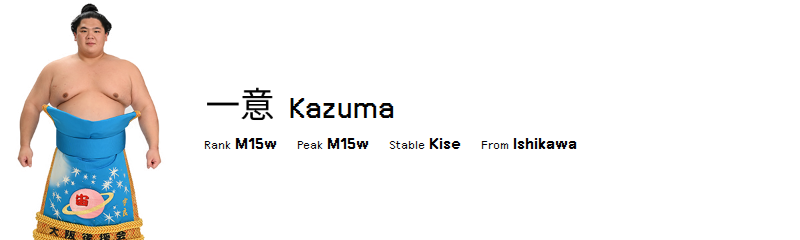
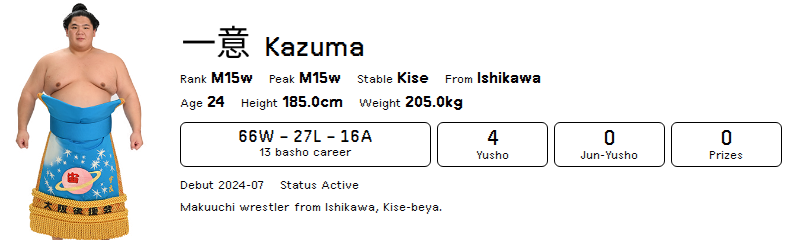
Pack more full-card rikishi fields into the smaller sizes
Photo stays on every size. half_horizontal uses the empty width for
rank/physicals, career boxes, debut/status, and a one-line bio.
half_vertical puts career W-L and yusho/prizes back in the right
column. quadrant adds W-L, yusho, age/height, and stable/from.

diff --git a/previews/profile/half_horizontal.html b/previews/profile/half_horizontal.html
@@ -16,30 +16,40 @@
         <style>
   .layout { padding: 0 !important; margin: 0 !important; }
   .view { padding: 0 !important; }
+  .stat-box {
+    display: flex;
+    flex-direction: column;
+    align-items: center;
+    justify-content: center;
+    border: 1px solid currentColor;
+    border-radius: 6px;
+    padding: 4px 8px;
+    flex: 1;
+  }
 </style>
 
 <div style="display: flex; flex-direction: row; width: 800px; height: 240px; overflow: hidden;">
 
-  <div style="width: 180px; flex-shrink: 0; overflow: hidden;">
+  <div style="width: 160px; flex-shrink: 0; overflow: hidden;">
     
       <img class="image image-dither image--cover"
            src="https://alexfry.github.io/SumoTrmnl/photos/12226.png"
-           style="display: block; width: 180px; height: 240px; object-fit: cover; object-position: top;">
+           style="display: block; width: 160px; height: 240px; object-fit: cover; object-position: top;">
     
   </div>
 
-  <div style="flex: 1; min-width: 0; display: flex; flex-direction: column; justify-content: center; padding: 16px 20px 16px 24px; gap: 0;">
+  <div style="flex: 1; min-width: 0; display: flex; flex-direction: column; justify-content: center; padding: 12px 18px 12px 20px; gap: 0;">
 
-    <div style="display: flex; align-items: flex-end; gap: 12px; margin-bottom: 12px;">
+    <div style="display: flex; align-items: flex-end; gap: 12px; margin-bottom: 8px;">
       
         <img class="image image-dither"
              src="https://alexfry.github.io/SumoTrmnl/jp/2c88e9afcd6b.png"
              style="display: inline; height: 36px; vertical-align: bottom;">
       
-      <span class="title" style="font-size: 28px; line-height: 1;">Kazuma</span>
+      <span class="title" style="font-size: 26px; line-height: 1;">Kazuma</span>
     </div>
 
-    <div style="display: flex; gap: 20px; flex-wrap: wrap;">
+    <div style="display: flex; gap: 16px; margin-bottom: 4px; flex-wrap: wrap;">
       <div><span class="label label--small">Rank</span>&nbsp;<span class="label" style="font-weight: bold;">M15w</span></div>
       <div><span class="label label--small">Peak</span>&nbsp;<span class="label">M15w</span></div>
       
@@ -49,6 +59,48 @@
         <div><span class="label label--small">From</span>&nbsp;<span class="label">Ishikawa</span></div>
       
     </div>
+
+    <div style="display: flex; gap: 16px; margin-bottom: 10px;">
+      
+        <div><span class="label label--small">Age</span>&nbsp;<span class="label">24</span></div>
+      
+      
+        <div><span class="label label--small">Height</span>&nbsp;<span class="label">185.0cm</span></div>
+      
+      
+        <div><span class="label label--small">Weight</span>&nbsp;<span class="label">205.0kg</span></div>
+      
+    </div>
+
+    <div style="display: flex; gap: 6px; margin-bottom: 8px;">
+      <div class="stat-box" style="flex: 2.5;">
+        <span class="title value--tnums" style="font-size: 16px;">66W &ndash; 27L &ndash; 16A</span>
+        <span class="label label--small">13 basho career</span>
+      </div>
+      <div class="stat-box">
+        <span class="title value--tnums">4</span>
+        <span class="label label--small">Yusho</span>
+      </div>
+      <div class="stat-box">
+        <span class="title value--tnums">0</span>
+        <span class="label label--small">Jun-Yusho</span>
+      </div>
+      <div class="stat-box">
+        <span class="title value--tnums">0</span>
+        <span class="label label--small">Prizes</span>
+      </div>
+    </div>
+
+    <div style="display: flex; gap: 16px; margin-bottom: 6px;">
+      
+        <div><span class="label label--small">Debut</span>&nbsp;<span class="label label--small">2024-07</span></div>
+      
+      <div><span class="label label--small">Status</span>&nbsp;<span class="label label--small">Active</span></div>
+    </div>
+
+    
+      <p class="label label--small" style="margin: 0; line-height: 1.3; overflow: hidden; white-space: nowrap; text-overflow: ellipsis;">Makuuchi wrestler from Ishikawa, Kise-beya.</p>
+    
 
   </div>
 

diff --git a/previews/profile/half_vertical.html b/previews/profile/half_vertical.html
@@ -16,30 +16,40 @@
         <style>
   .layout { padding: 0 !important; margin: 0 !important; }
   .view { padding: 0 !important; }
+  .stat-box {
+    display: flex;
+    flex-direction: column;
+    align-items: center;
+    justify-content: center;
+    border: 1px solid currentColor;
+    border-radius: 6px;
+    padding: 5px 6px;
+    flex: 1;
+  }
 </style>
 
 <div style="display: flex; flex-direction: row; width: 400px; height: 480px; overflow: hidden;">
 
-  <div style="width: 170px; flex-shrink: 0; overflow: hidden;">
+  <div style="width: 160px; flex-shrink: 0; overflow: hidden;">
     
       <img class="image image-dither image--cover"
            src="https://alexfry.github.io/SumoTrmnl/photos/12226.png"
-           style="display: block; width: 170px; height: 480px; object-fit: cover; object-position: top;">
+           style="display: block; width: 160px; height: 480px; object-fit: cover; object-position: top;">
     
   </div>
 
-  <div style="flex: 1; min-width: 0; display: flex; flex-direction: column; justify-content: center; padding: 16px 14px 16px 16px; gap: 0;">
+  <div style="flex: 1; min-width: 0; display: flex; flex-direction: column; justify-content: center; padding: 14px 12px 14px 14px; gap: 0;">
 
-    <div style="display: flex; flex-direction: column; align-items: flex-start; gap: 8px; margin-bottom: 14px;">
+    <div style="display: flex; flex-direction: column; align-items: flex-start; gap: 6px; margin-bottom: 10px;">
       
         <img class="image image-dither"
              src="https://alexfry.github.io/SumoTrmnl/jp/2c88e9afcd6b.png"
-             style="display: block; height: 36px;">
+             style="display: block; height: 32px;">
       
-      <span class="title" style="font-size: 24px; line-height: 1;">Kazuma</span>
+      <span class="title" style="font-size: 22px; line-height: 1;">Kazuma</span>
     </div>
 
-    <div style="display: flex; flex-direction: column; gap: 6px;">
+    <div style="display: flex; flex-direction: column; gap: 4px; margin-bottom: 8px;">
       <div><span class="label label--small">Rank</span>&nbsp;<span class="label" style="font-weight: bold;">M15w</span></div>
       <div><span class="label label--small">Peak</span>&nbsp;<span class="label">M15w</span></div>
       
@@ -48,6 +58,45 @@
       
         <div><span class="label label--small">From</span>&nbsp;<span class="label">Ishikawa</span></div>
       
+    </div>
+
+    <div style="display: flex; flex-direction: column; gap: 4px; margin-bottom: 10px;">
+      
+        <div><span class="label label--small">Age</span>&nbsp;<span class="label">24</span></div>
+      
+      
+        <div><span class="label label--small">Height</span>&nbsp;<span class="label">185.0cm</span></div>
+      
+      
+        <div><span class="label label--small">Weight</span>&nbsp;<span class="label">205.0kg</span></div>
+      
+    </div>
+
+    <div class="stat-box" style="margin-bottom: 6px;">
+      <span class="title value--tnums" style="font-size: 15px;">66W &ndash; 27L &ndash; 16A</span>
+      <span class="label label--small">13 basho career</span>
+    </div>
+
+    <div style="display: flex; gap: 5px; margin-bottom: 10px;">
+      <div class="stat-box">
+        <span class="title value--tnums">4</span>
+        <span class="label label--small">Yusho</span>
+      </div>
+      <div class="stat-box">
+        <span class="title value--tnums">0</span>
+        <span class="label label--small">Jun-Yusho</span>
+      </div>
+      <div class="stat-box">
+        <span class="title value--tnums">0</span>
+        <span class="label label--small">Prizes</span>
+      </div>
+    </div>
+
+    <div style="display: flex; flex-direction: column; gap: 4px;">
+      
+        <div><span class="label label--small">Debut</span>&nbsp;<span class="label label--small">2024-07</span></div>
+      
+      <div><span class="label label--small">Status</span>&nbsp;<span class="label label--small">Active</span></div>
     </div>
 
   </div>

diff --git a/previews/profile/quadrant.html b/previews/profile/quadrant.html
@@ -20,28 +20,51 @@
 
 <div style="display: flex; flex-direction: row; width: 400px; height: 240px; overflow: hidden;">
 
-  <div style="width: 150px; flex-shrink: 0; overflow: hidden;">
+  <div style="width: 140px; flex-shrink: 0; overflow: hidden;">
     
       <img class="image image-dither image--cover"
            src="https://alexfry.github.io/SumoTrmnl/photos/12226.png"
-           style="display: block; width: 150px; height: 240px; object-fit: cover; object-position: top;">
+           style="display: block; width: 140px; height: 240px; object-fit: cover; object-position: top;">
     
   </div>
 
-  <div style="flex: 1; min-width: 0; display: flex; flex-direction: column; justify-content: center; padding: 14px 12px 14px 14px; gap: 0;">
+  <div style="flex: 1; min-width: 0; display: flex; flex-direction: column; justify-content: center; padding: 10px 12px 10px 14px; gap: 0;">
 
-    <div style="display: flex; flex-direction: column; align-items: flex-start; gap: 6px; margin-bottom: 10px;">
+    <div style="display: flex; flex-direction: column; align-items: flex-start; gap: 4px; margin-bottom: 8px;">
       
         <img class="image image-dither"
              src="https://alexfry.github.io/SumoTrmnl/jp/2c88e9afcd6b.png"
-             style="display: block; height: 28px;">
+             style="display: block; height: 24px;">
       
-      <span class="title" style="font-size: 22px; line-height: 1;">Kazuma</span>
+      <span class="title" style="font-size: 20px; line-height: 1;">Kazuma</span>
     </div>
 
-    <div style="display: flex; flex-direction: column; gap: 6px;">
+    <div style="display: flex; gap: 12px; flex-wrap: wrap; margin-bottom: 4px;">
       <div><span class="label label--small">Rank</span>&nbsp;<span class="label" style="font-weight: bold;">M15w</span></div>
       <div><span class="label label--small">Peak</span>&nbsp;<span class="label">M15w</span></div>
+    </div>
+
+    <div style="display: flex; gap: 12px; flex-wrap: wrap; margin-bottom: 8px;">
+      
+        <div><span class="label label--small">Age</span>&nbsp;<span class="label">24</span></div>
+      
+      
+        <div><span class="label label--small">Height</span>&nbsp;<span class="label">185.0cm</span></div>
+      
+    </div>
+
+    <div style="margin-bottom: 6px;">
+      <span class="title value--tnums" style="font-size: 16px;">66W &ndash; 27L &ndash; 16A</span>
+      <div><span class="label label--small">13 basho · 4 Yusho · 0 Prizes</span></div>
+    </div>
+
+    <div style="display: flex; gap: 12px; flex-wrap: wrap;">
+      
+        <div><span class="label label--small">Stable</span>&nbsp;<span class="label">Kise</span></div>
+      
+      
+        <div><span class="label label--small">From</span>&nbsp;<span class="label">Ishikawa</span></div>
+      
     </div>
 
   </div>
